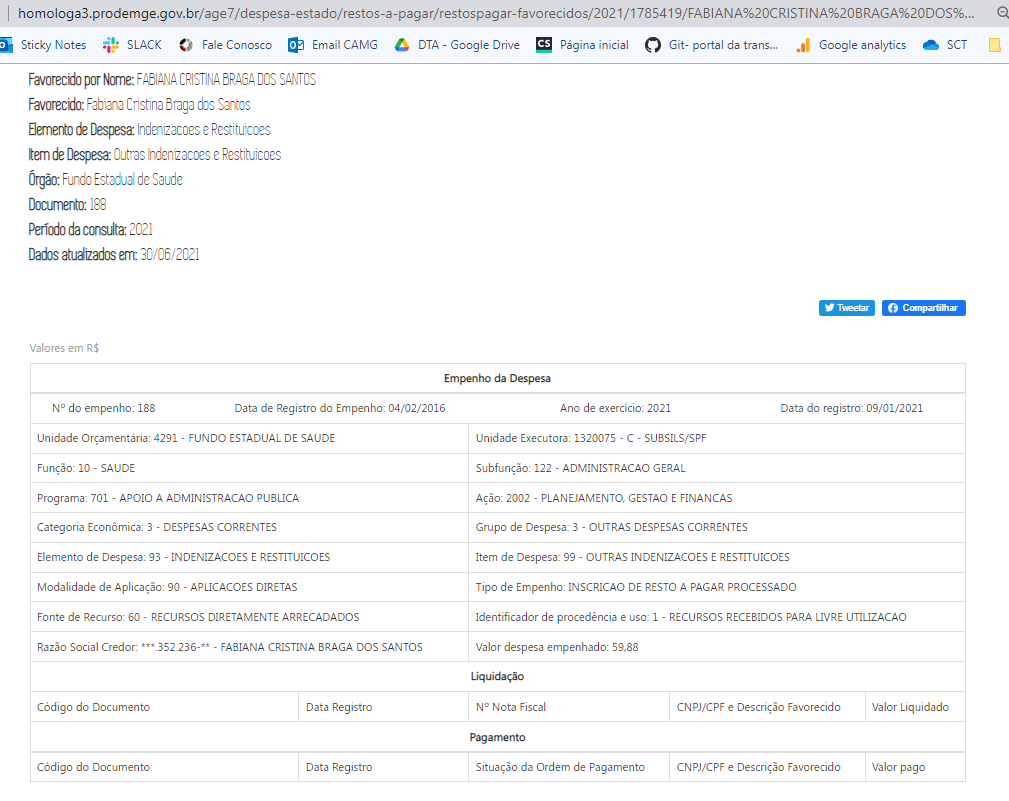
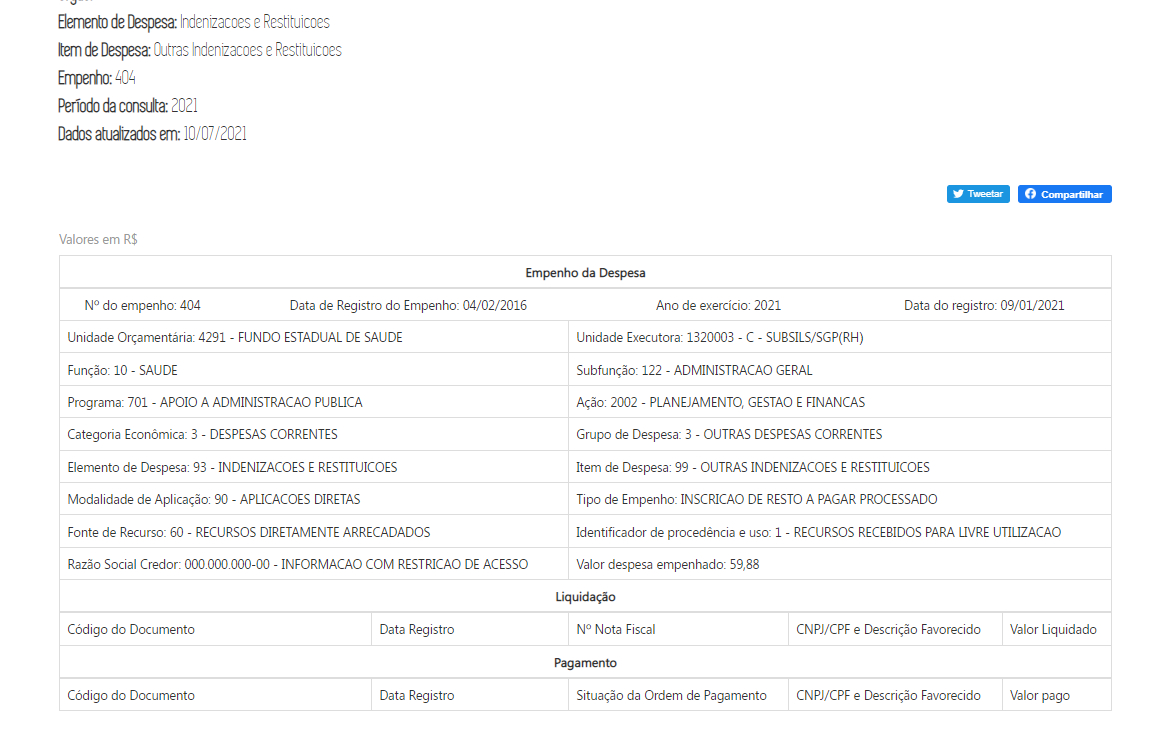
Homologa anonimização dos dados pessoais

diff --git a/espec015_anonimizacao-dados-pessoais/anonimizacao-dados-pessoais-homologa-valores.md b/espec015_anonimizacao-dados-pessoais/anonimizacao-dados-pessoais-homologa-valores.md
@@ -240,18 +240,15 @@ Anonimização realizada em 2016 - **CONFERE**
 ![](static/homologa-formulario-teste1a.png)
 
 </div>
-<div class="alert alert-danger">
+<div class="alert alert-sucess">
 
 **Restos a Pagar - Pesquisa Básica**
 
-**Corrigir**
---
-A informação não foi anonimizada em Restos a Pagar
---
+**Corrigido**
 
-[Link Produção](https://www.transparencia.mg.gov.br/despesa-estado/restos-a-pagar/restospagar-orgaos/2021/4113/466/42/20/2991/130/18/1917639)
+[Link Produção](https://www.transparencia.mg.gov.br/despesa-estado/despesa/despesa-orgaos/2016/01-01-2016/31-12-2016/3541/1788/466/20/42/1741243/0/2991/empenhado/4/9914927/0/0)
 
-[Link homologação](http://homologa3.prodemge.gov.br/age7/despesa-estado/restos-a-pagar/restospagar-favorecidos/2021/1785419/FABIANA%20CRISTINA%20BRAGA%20DOS%20SANTOS/0/3/0/562/25/51/3566/154/483/9905/188/5541190)
+[Link homologação](http://homologa3.prodemge.gov.br/age7/despesa-estado/restos-a-pagar/restospagar-orgaos/2021/9905/562/51/25/3566/154/483/5545995)
 
 ![](static/homologa-formulario-detalhamento-restosapagar.png)
 </div>
